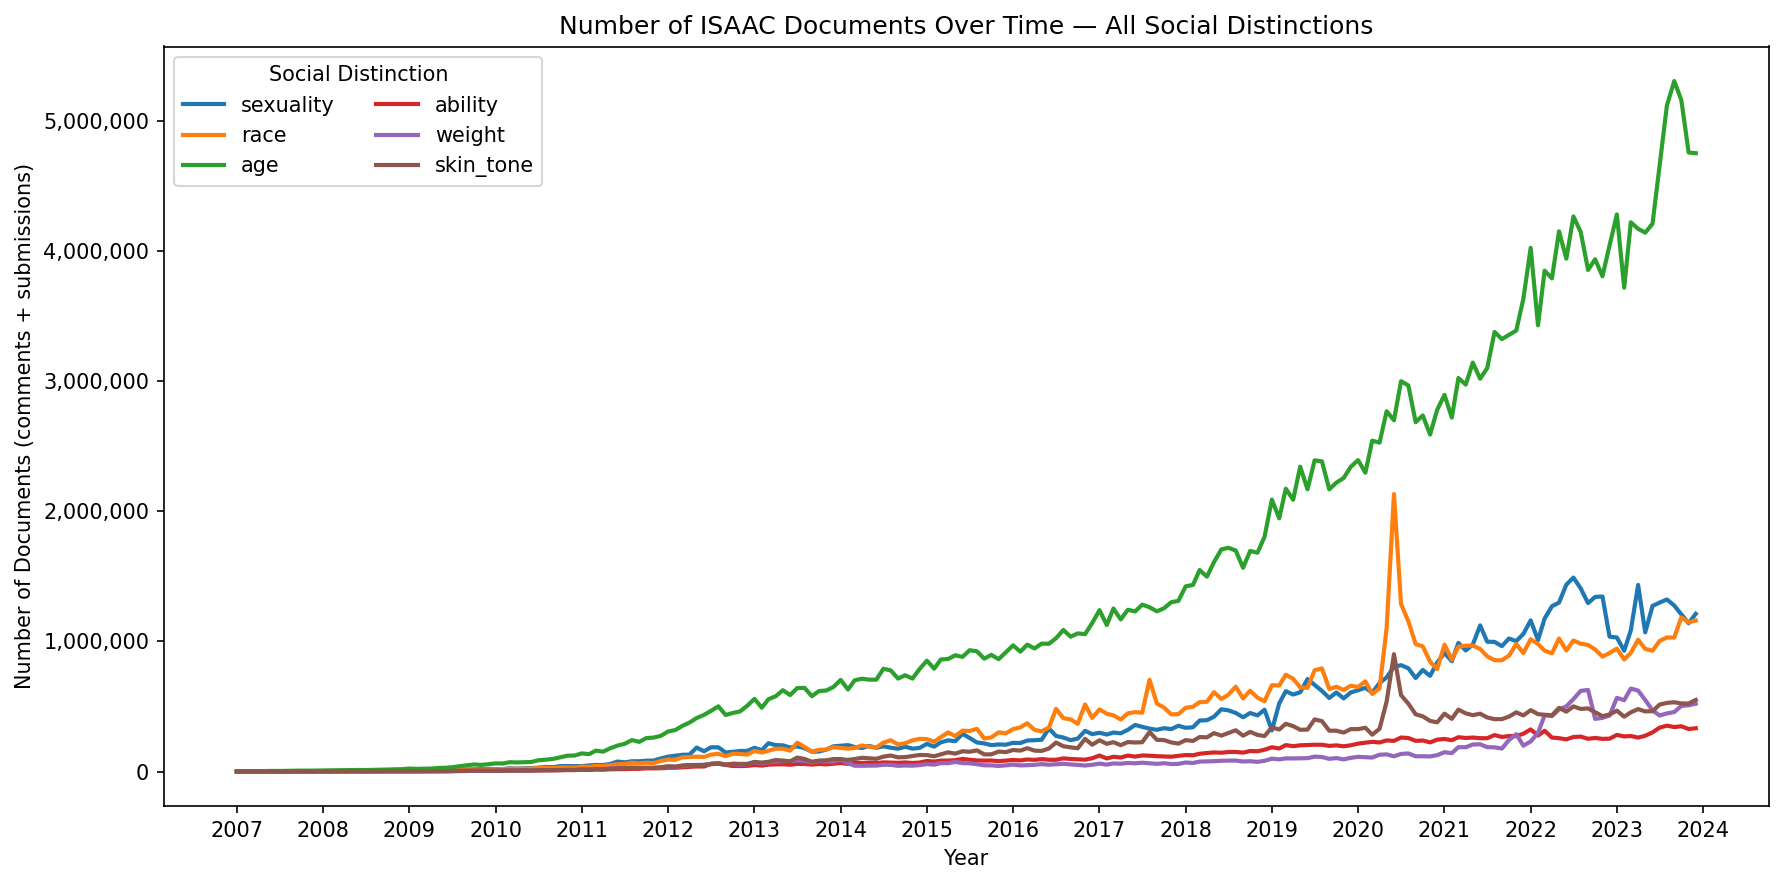
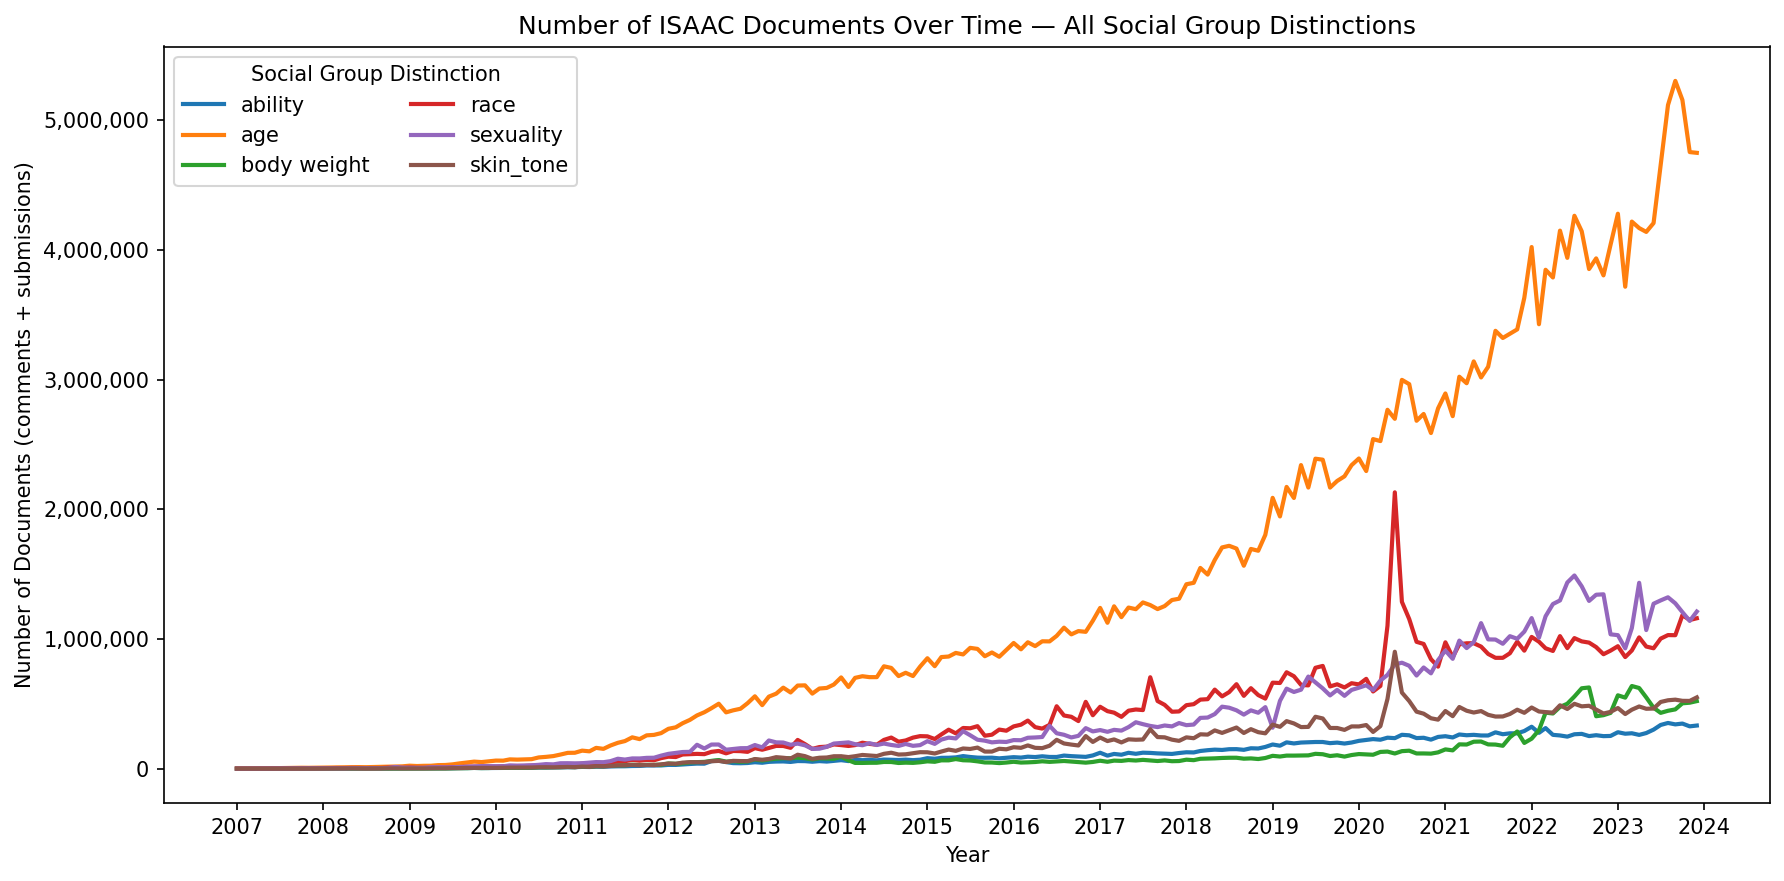
Carry forward local edits: US/NON_US note and Appendix D pointer in variable_list.md; regenerated overview figures

diff --git a/variable_list.md b/variable_list.md
@@ -39,7 +39,9 @@ Each row in ISAAC represents a Reddit submission or comment associated with its 
     - *Non-US world region*: `AFRICA`, `AMERICAS`, `ASIA_OCEANIA`, `EUROPE`.
     - *US state*: two-letter codes for the 51 jurisdictions, i.e., the 50 states plus `DC` (e.g., `AK` for Alaska).
 
-56. **location_prob**: The model's probability for the label in column 55, between 0 and 1. Empty when the assigned location is `UNK`. Because the decision thresholds are level-specific, these values are comparable within a level of the hierarchy but not across levels. 
+    `US` and `NON_US` are labels in their own right, not merely parent categories: a row labeled `US` is a user placed in the United States whose state could not be resolved, and a row labeled `NON_US` is a user placed outside the United States whose world region could not be resolved.
+
+56. **location_prob**: The model's probability for the label in column 55, between 0 and 1. Empty when the assigned location is `UNK`. Because the decision thresholds are level-specific, these values are comparable within a level of the hierarchy but not across levels. See Appendix D of the corpus paper for the calibration analyses and the released recalibration maps.
 
 57. **contender_location**: The runner-up label for the user's home location per the model, drawn from the same value set as column 55 and never identical to it. When the assigned location is `UNK`, this is the top non-`UNK` label the model preferred before thresholding. Empty when the model produced no runner-up.
 
